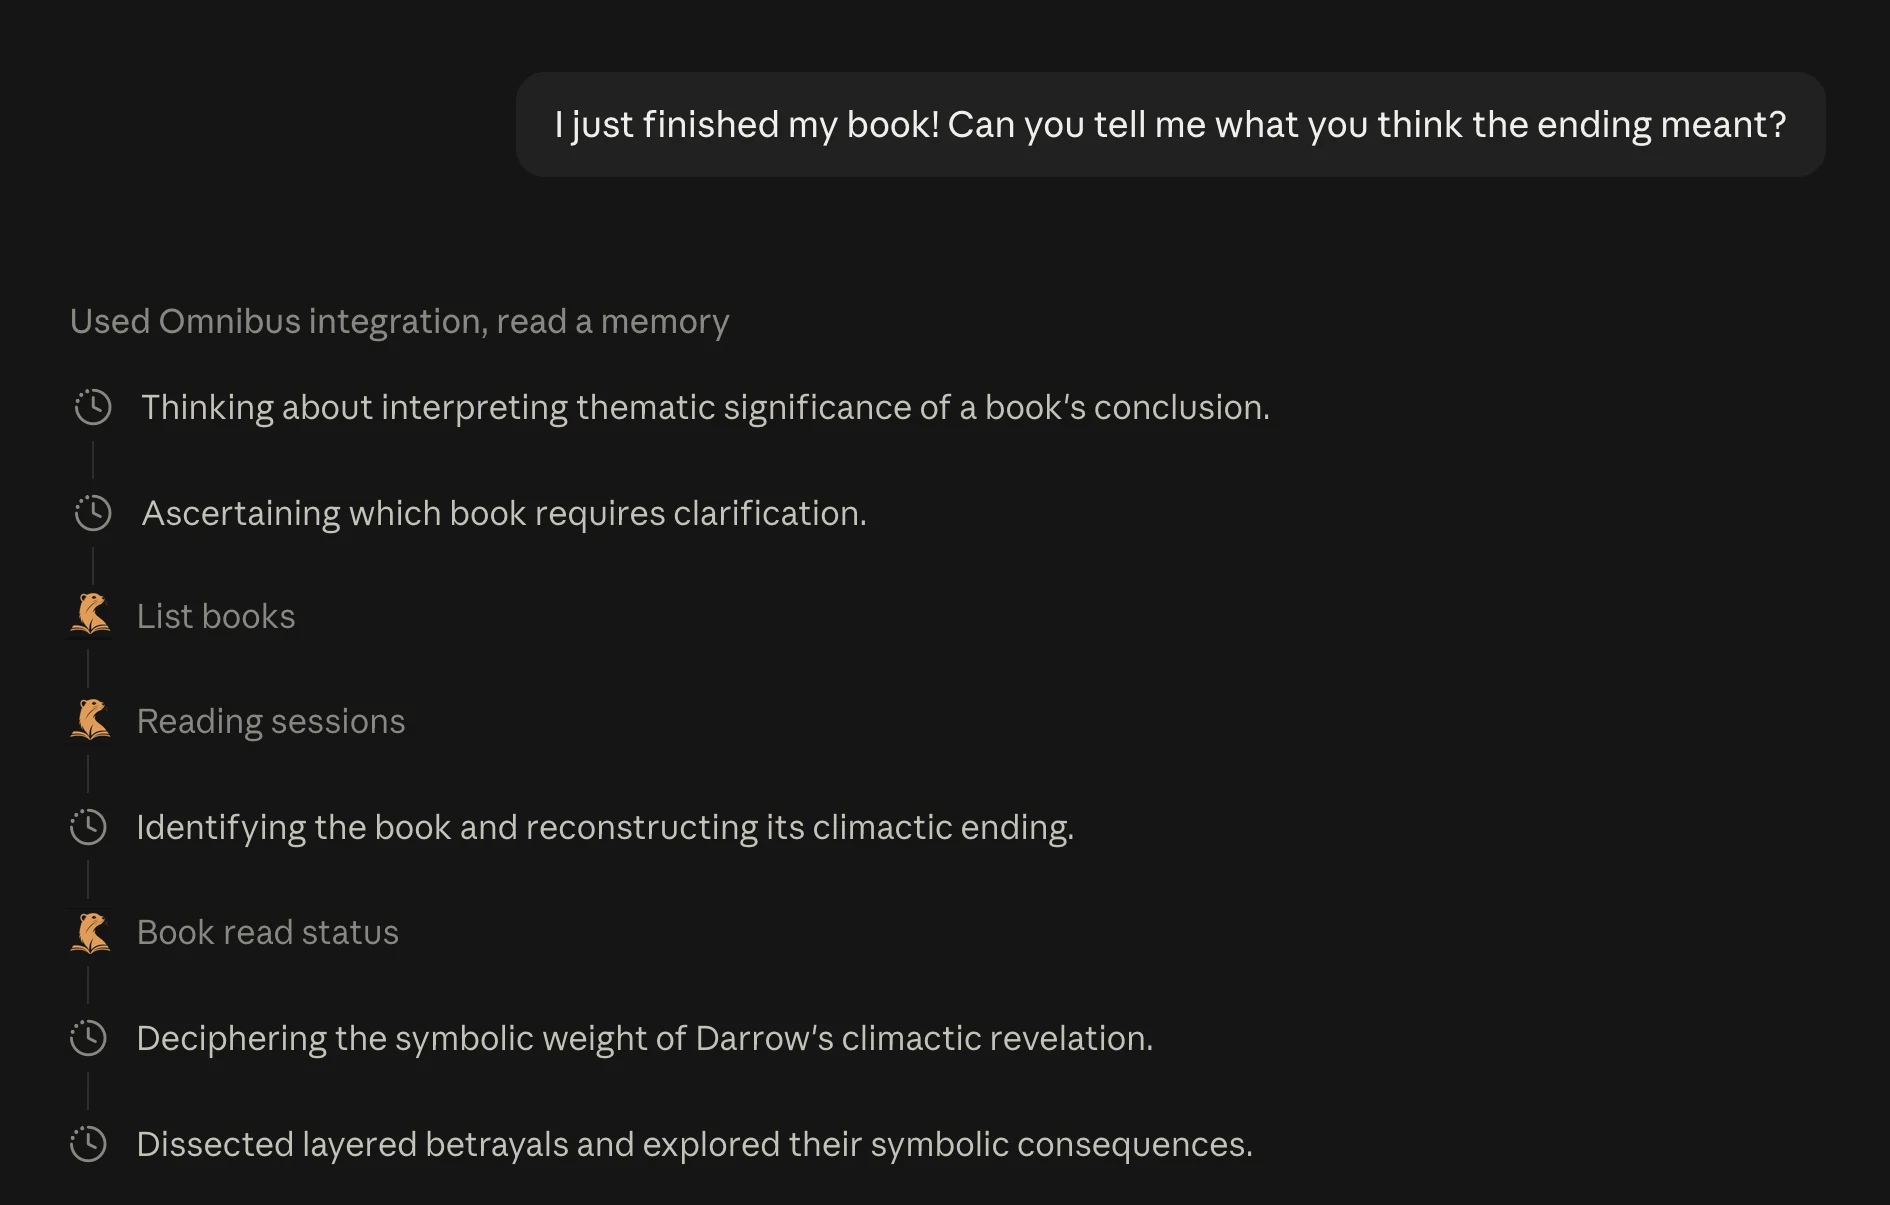
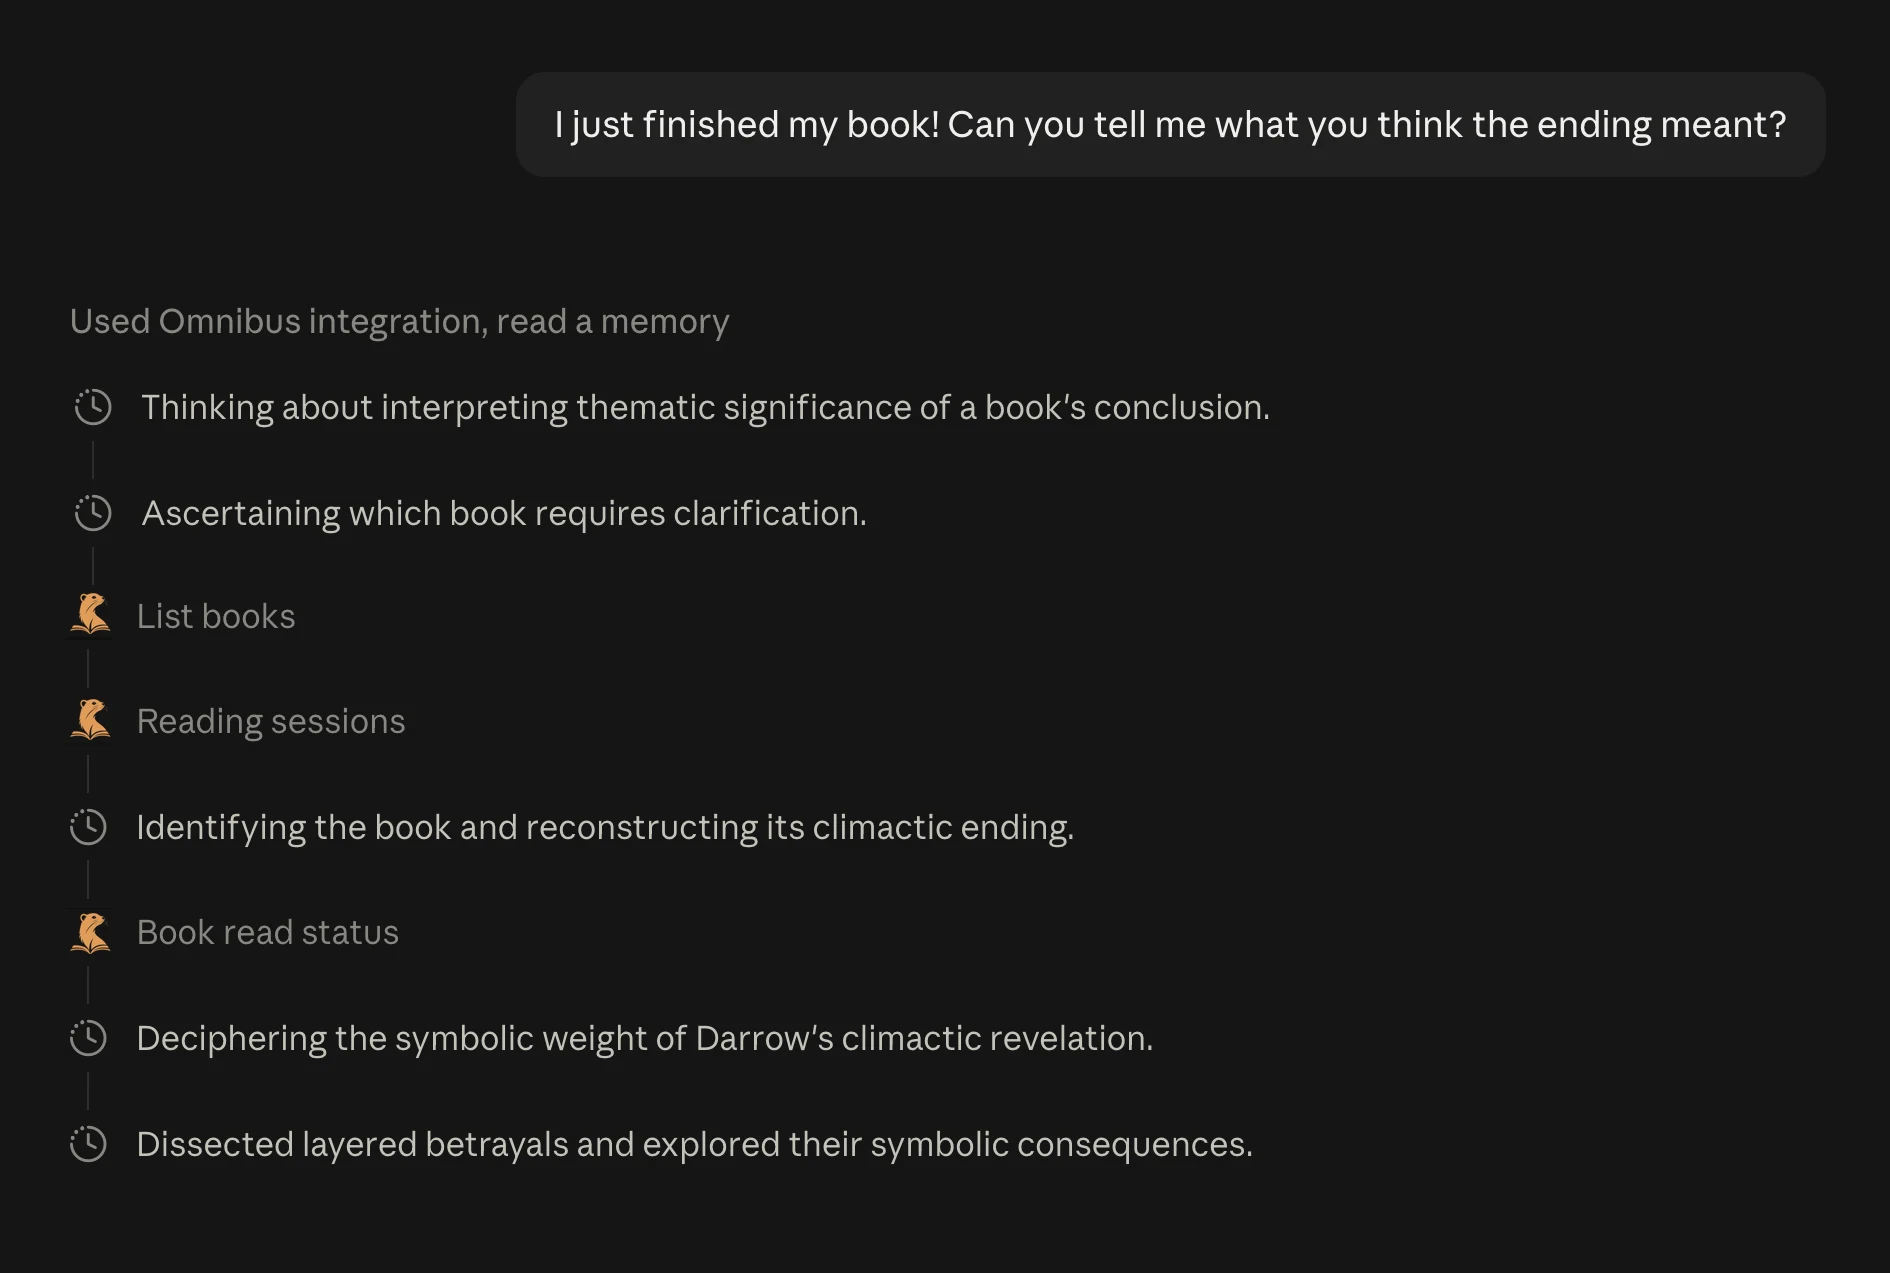
fix: stop the left MCP shot reading as cut off
It ended 42px below its last line against 110px of headroom, so the crop
looked like a truncation rather than a framed excerpt. Padded to match,
with background only — extending the crop instead would pull in the
answer paragraph, whose spoiler redactions are background-coloured holes
mid-sentence and read as broken text.

diff --git a/site/src/index.html b/site/src/index.html
@@ -275,8 +275,8 @@
         <div class="duo">
           <div>
             <div class="shotwrap" data-anim style="--d:190ms">
-              <figure class="frame" style="--ar:1890/1205">
-                <img class="shot" src="shots/dark/omnibus-mcp.webp" width="1890" height="1205" alt="An MCP client asked what a book&#39;s ending meant, calling the Omnibus tools List books, Reading sessions, and Book read status to work out which book was just finished.">
+              <figure class="frame" style="--ar:1890/1273">
+                <img class="shot" src="shots/dark/omnibus-mcp.webp" width="1890" height="1273" alt="An MCP client asked what a book&#39;s ending meant, calling the Omnibus tools List books, Reading sessions, and Book read status to work out which book was just finished.">
               </figure>
             </div>
             <p class="phone-cap" data-anim style="--d:250ms">Ask about what you read</p>
